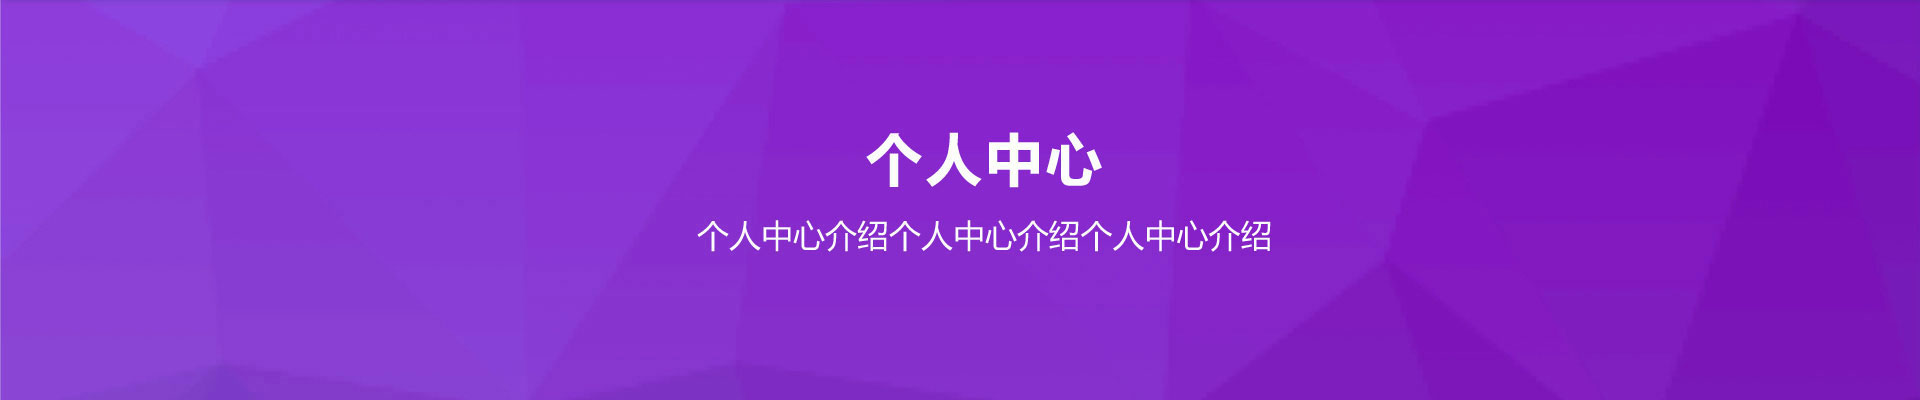
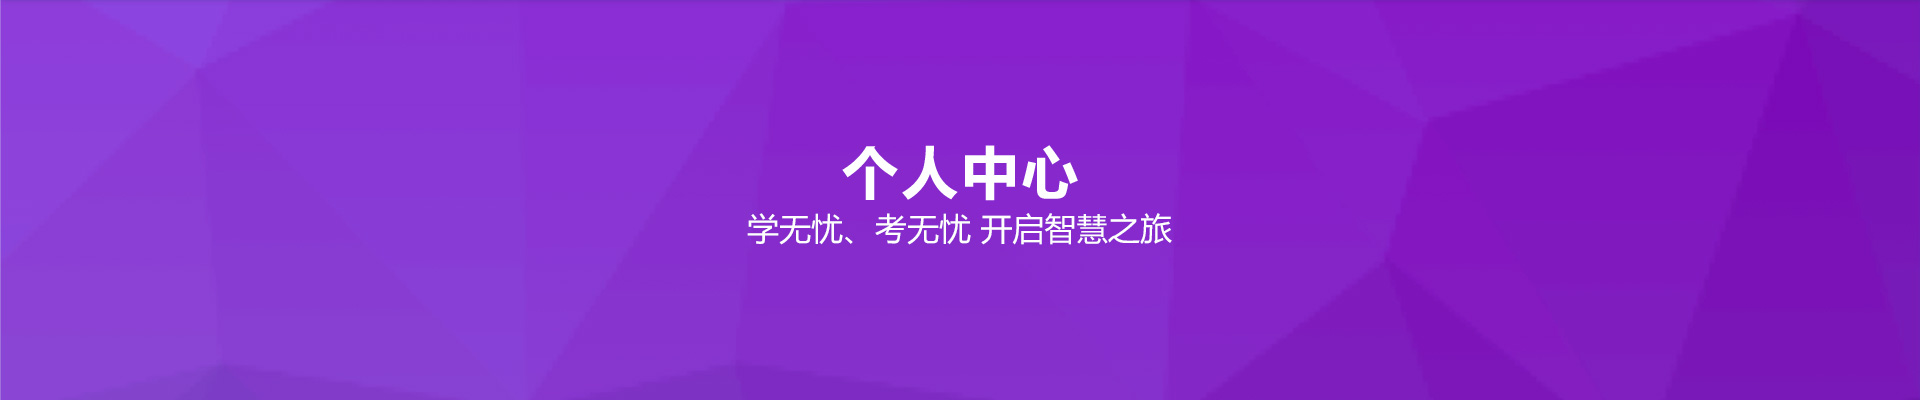
aaa

Changed region(s): [[0.3438, 0.54, 0.6875, 0.63], [0.4375, 0.33, 0.5938, 0.51]]

diff --git a/src/views/ClassDetails.vue b/src/views/ClassDetails.vue
@@ -1,7 +1,9 @@
 <template>
     <div>
         <logo></logo>
-        <div class="banner2"></div>
+        <div class="banner2">
+            <div class="banner2-font">专业的学习体系<br/>资深的在线讲师</div>
+        </div>
 
         <div class="content2 pay">
             <a-row>
@@ -108,9 +110,15 @@
         width: 800px;
         margin: 0 auto;
     }
+    .banner2-font{
+        font-size:36px;
+        color:#fff;
+        text-align: center;
+        margin-top: 100px;
+    }
     .pay{
         position: absolute;
-        top: 350px;
+        top: 423px;
         left: 50%;
         margin-left: -400px;
         padding:30px 30px;
